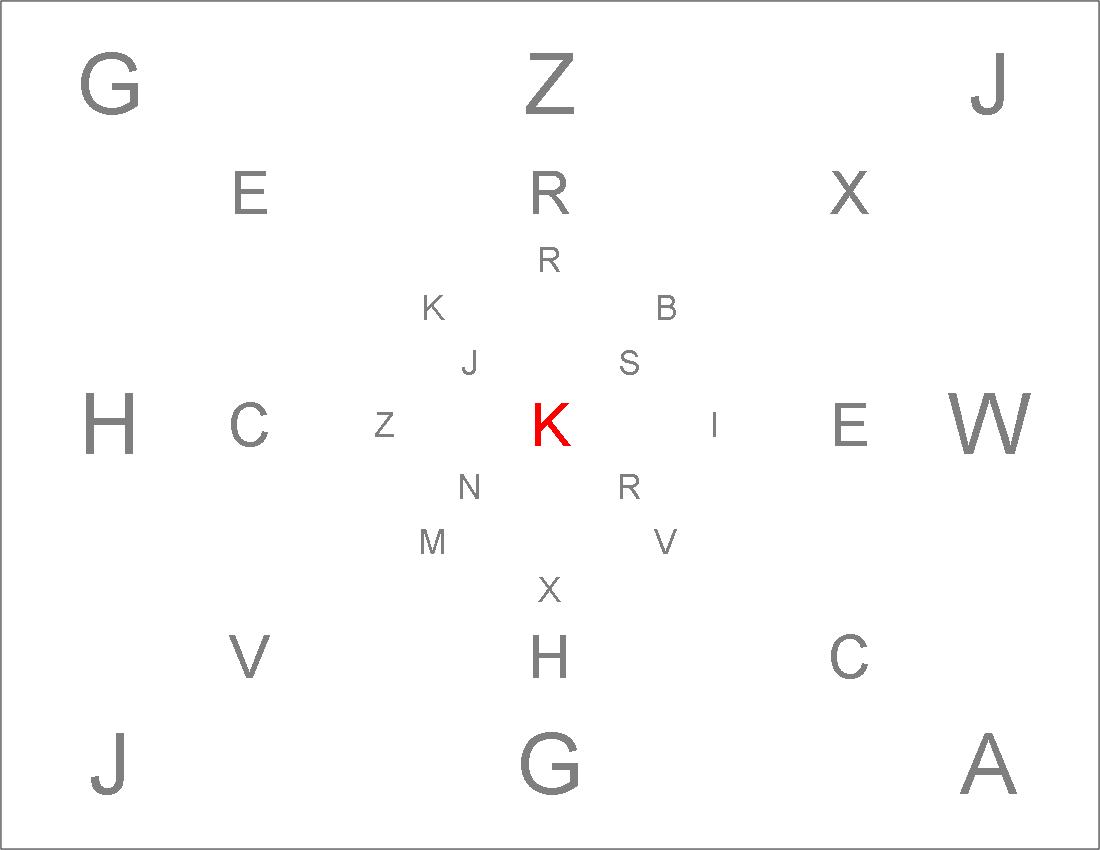
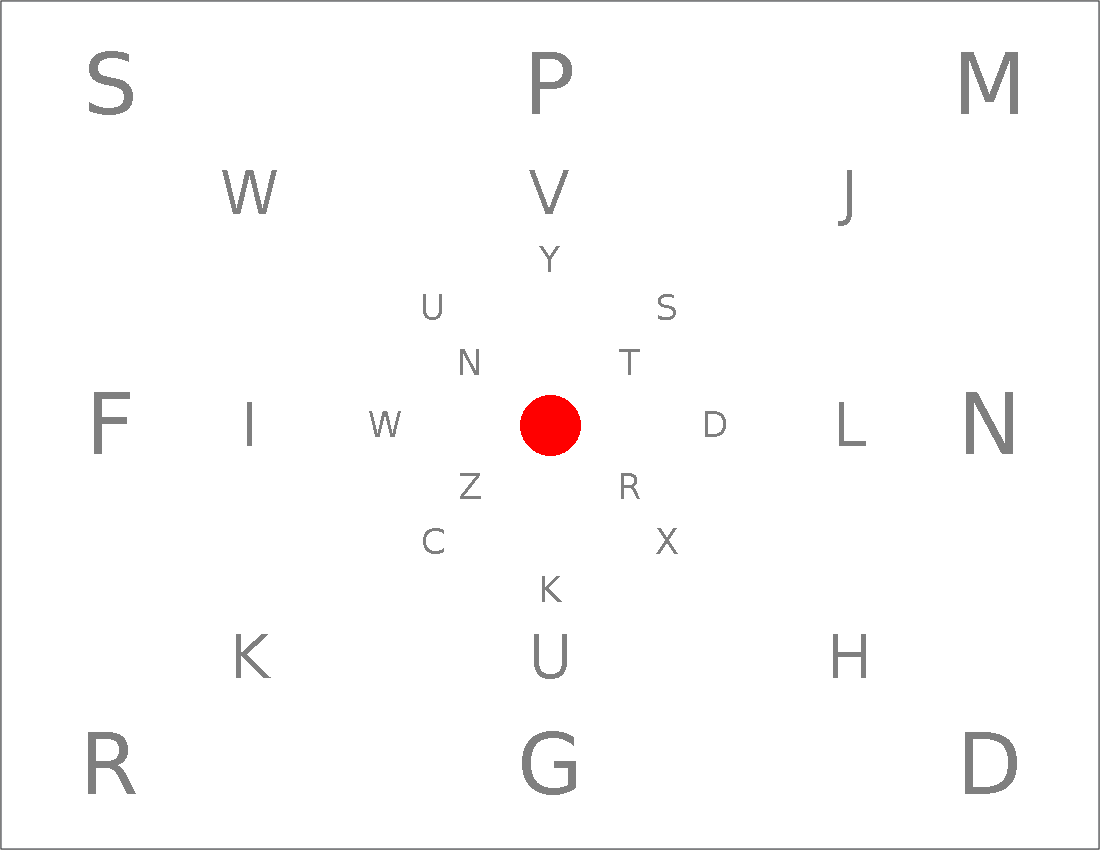
Can't be asked.

diff --git a/templates/peripheral_awareness.html b/templates/peripheral_awareness.html
@@ -1,0 +1,7 @@
+<html>
+    <body style="background-color: black;">
+        <div style="display: flex; justify-content: center;margin: auto; align-items: center; height: 850px;">
+            <img src="{{ url_for('static', filename='peripheral_awareness.png') }}"/>
+        </div>
+    </body>
+</html>

diff --git a/peripheral_awareness/peripheral_awareness.py b/peripheral_awareness/peripheral_awareness.py
@@ -1,12 +1,48 @@
-from tkinter import *
 import sympy
 from PIL import Image, ImageDraw, ImageFont
-import random
+from random import shuffle
+
+letters = []
 
 
-def rl():
-    uppercase_alphabet = "ABCDEFGHIJKLMNOPQRSTUVWXYZ"
-    return random.choice(uppercase_alphabet)
+def rl() -> str:
+    global letters
+    if len(letters) == 0:
+        alphabet: list[str] = [
+            "A",
+            "B",
+            "C",
+            "D",
+            "E",
+            "F",
+            "G",
+            "H",
+            "I",
+            "J",
+            "K",
+            "L",
+            "M",
+            "N",
+            "O",
+            "P",
+            "Q",
+            "R",
+            "S",
+            "T",
+            "U",
+            "V",
+            "W",
+            "X",
+            "Y",
+            "Z",
+        ]
+        letters = alphabet
+        shuffle(letters)
+        print(letters)
+    if len(letters) > 0:
+        l: str = letters.pop()
+    print(l)
+    return l
 
 
 def peripheral_awareness():

diff --git a/app.py b/app.py
@@ -1,4 +1,4 @@
-from flask import Flask, send_file
+from flask import Flask, render_template
 import os
 from peripheral_awareness.peripheral_awareness import peripheral_awareness
 
@@ -8,9 +8,7 @@ app = Flask(__name__)
 @app.route("/peripheral_awareness_v1")
 def myapp():
     peripheral_awareness()
-    return send_file(
-        "peripheral_awareness/peripheral_awareness.png", mimetype="image/png"
-    )
+    return render_template("peripheral_awareness.html")
 
 
 if __name__ == "__main__":
